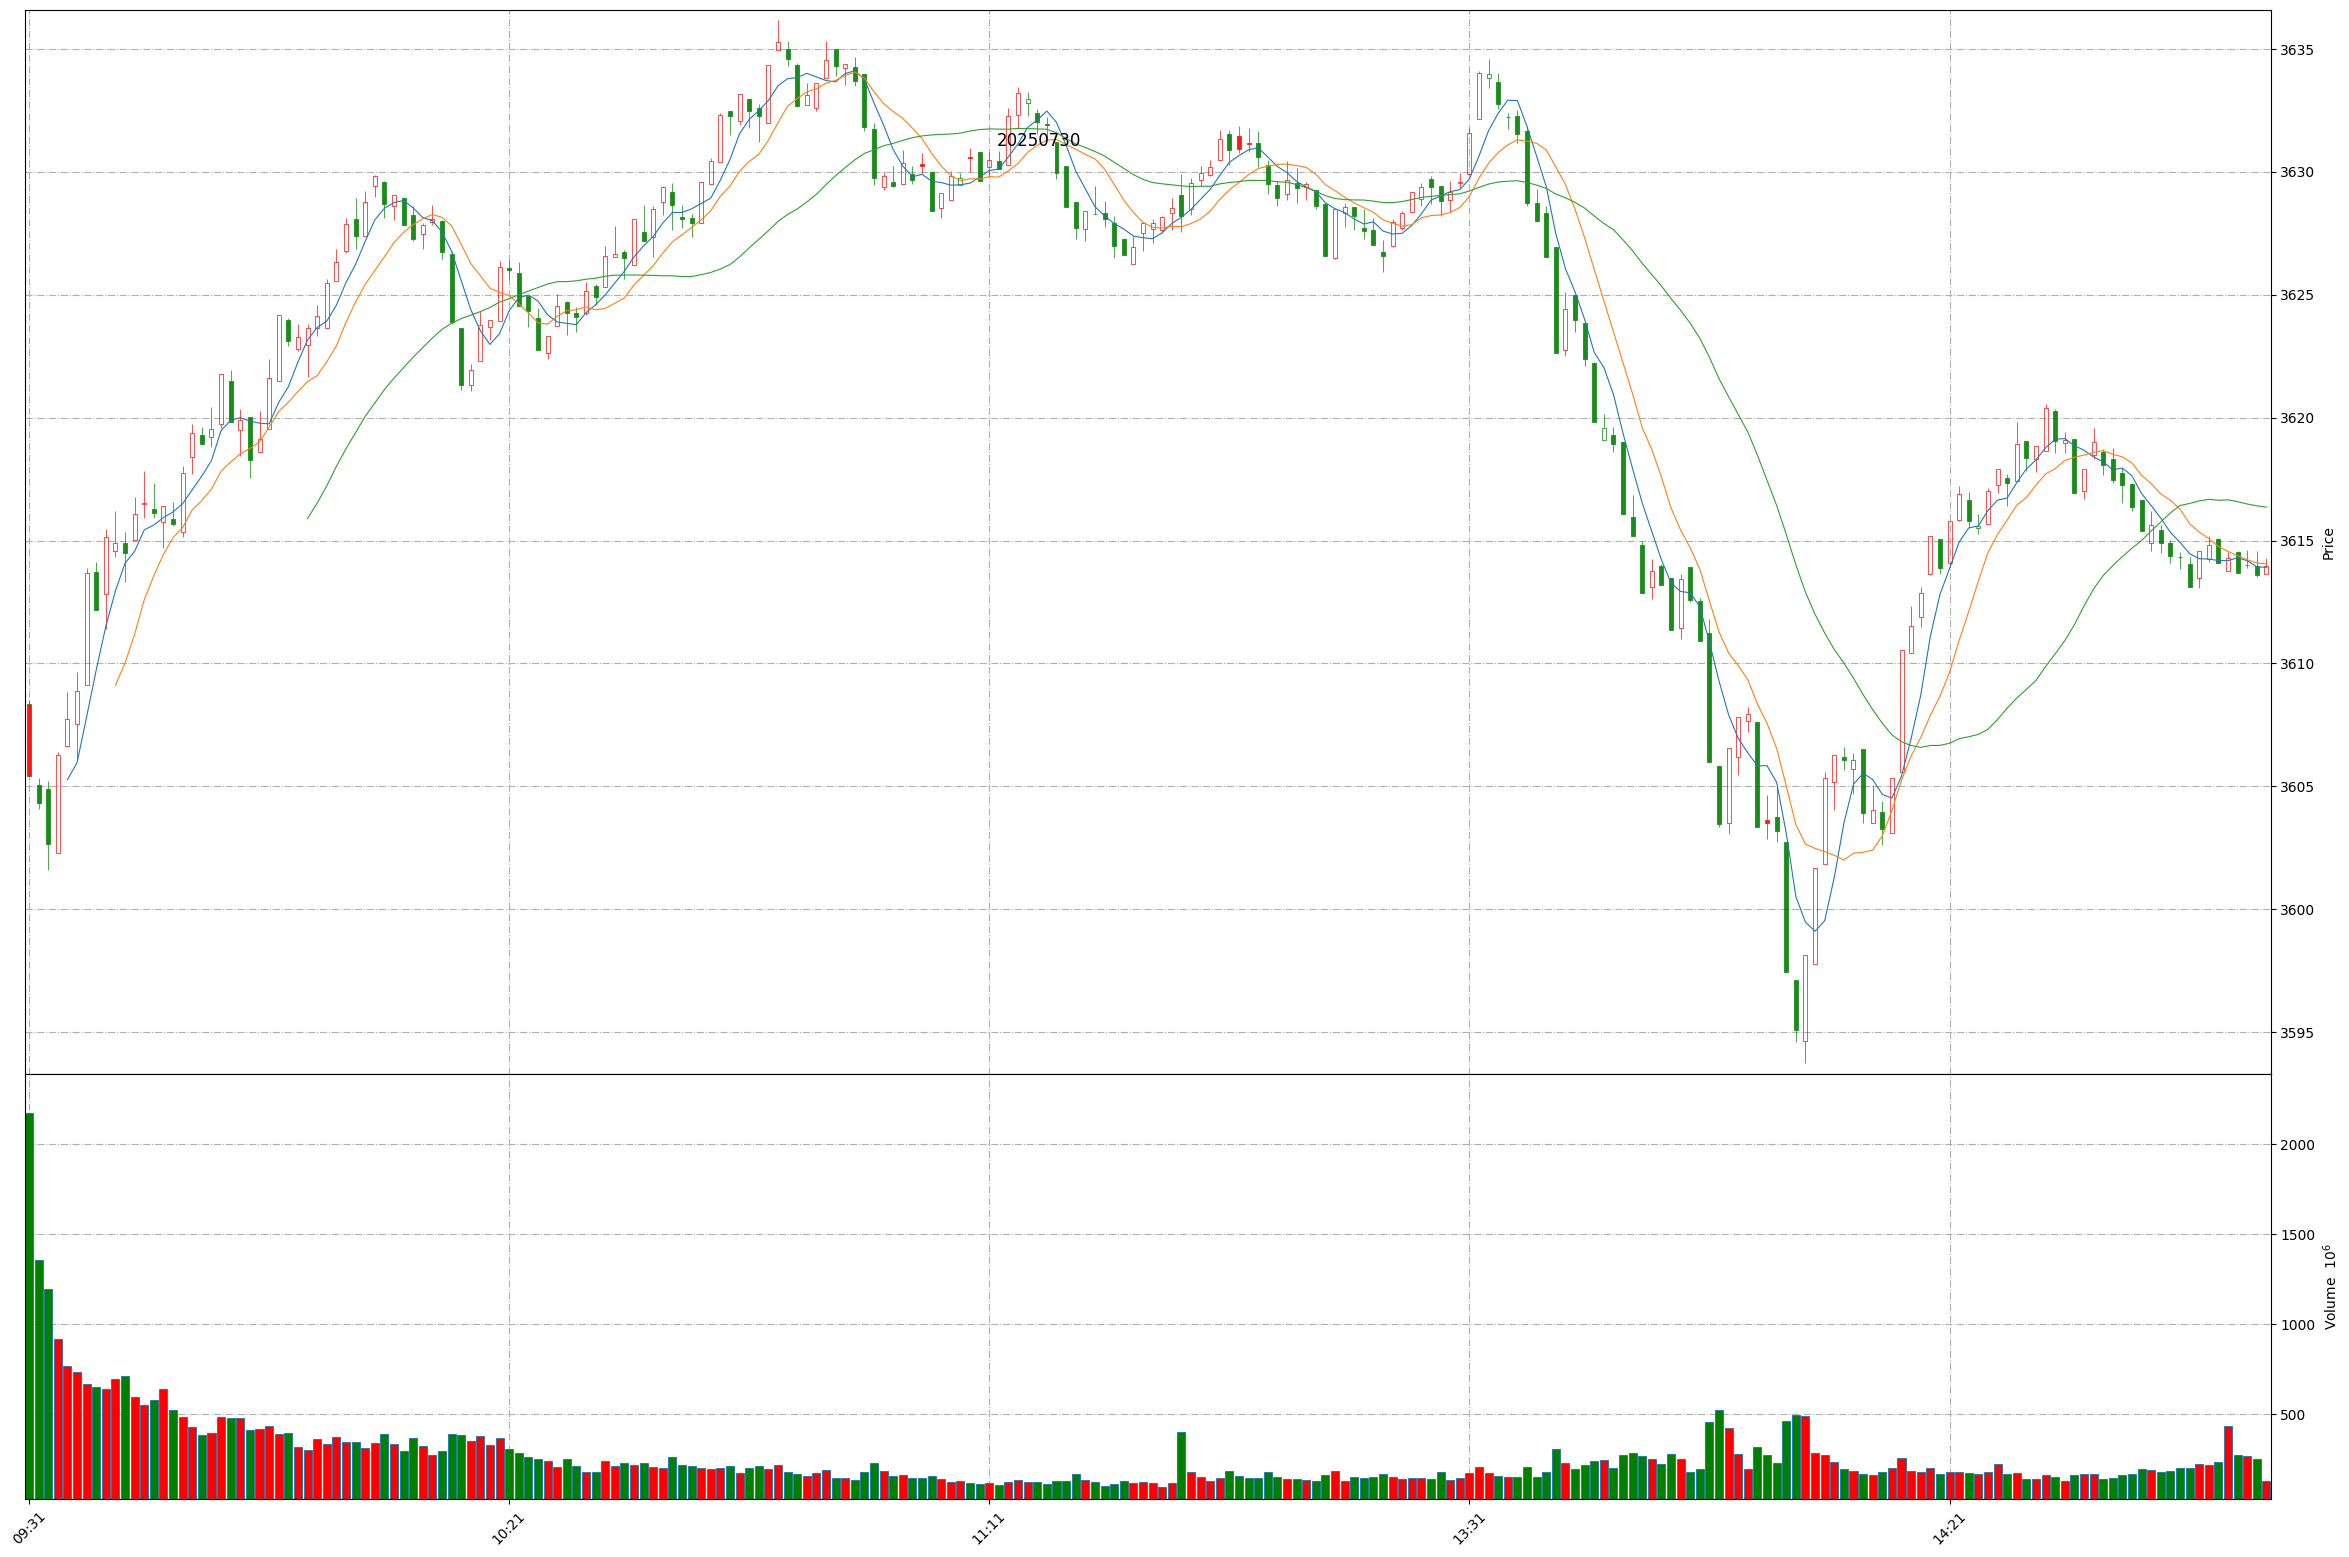
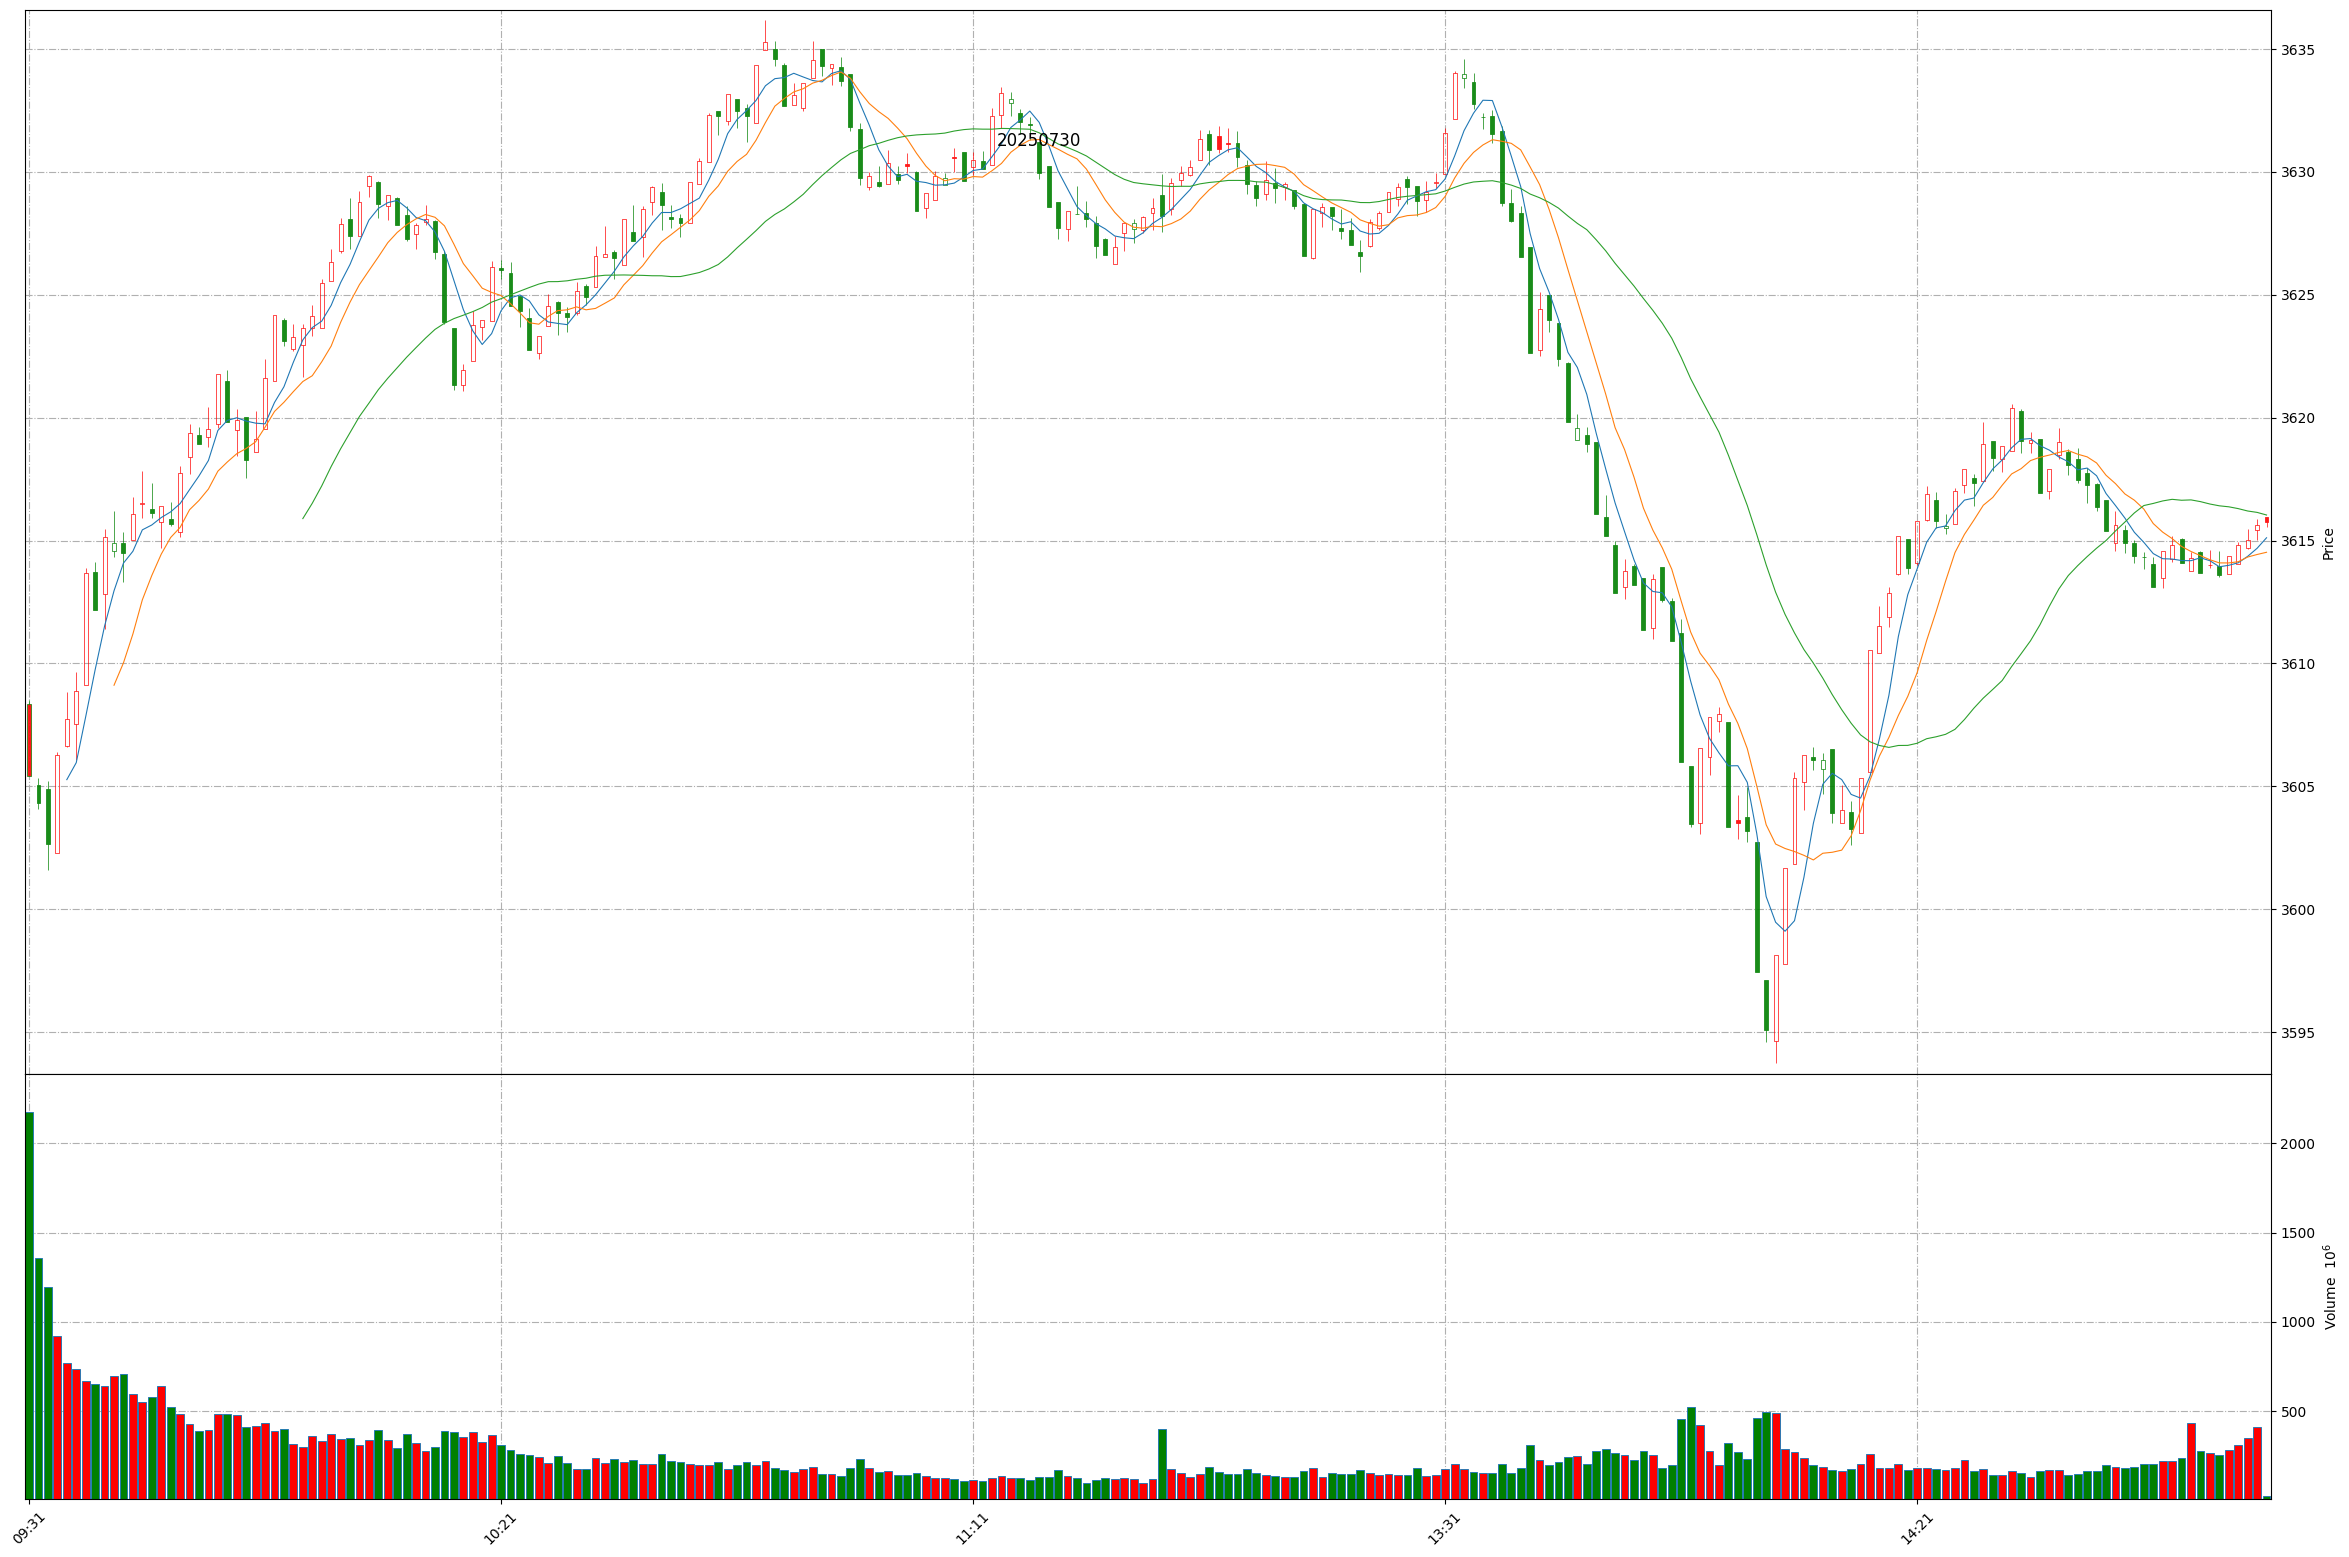
Github action update at 2025-07-30 14:58:34.

diff --git a/README.md b/README.md
@@ -1,11 +1,11 @@
 
 # Daily-A-share-market-quotes 每日 A 股指数（5min 更新）- 20250730
 
-### 上证指数 20250730 14:53
+### 上证指数 20250730 14:58
 ![](./fig/2025/7/20250730-sh000001.png)
 
-### 深证成指 20250730 14:53
+### 深证成指 20250730 14:58
 ![](./fig/2025/7/20250730-sz399001.png)
 
-### 北证50 20250730 14:53
+### 北证50 20250730 14:58
 ![](./fig/2025/7/20250730-bj899050.png)
